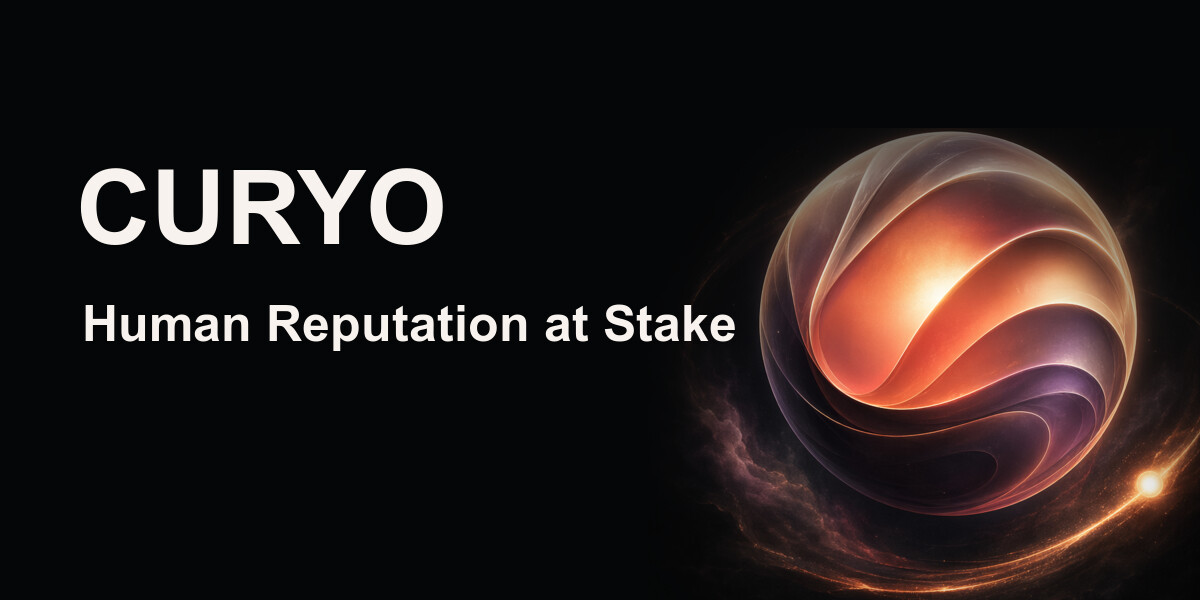
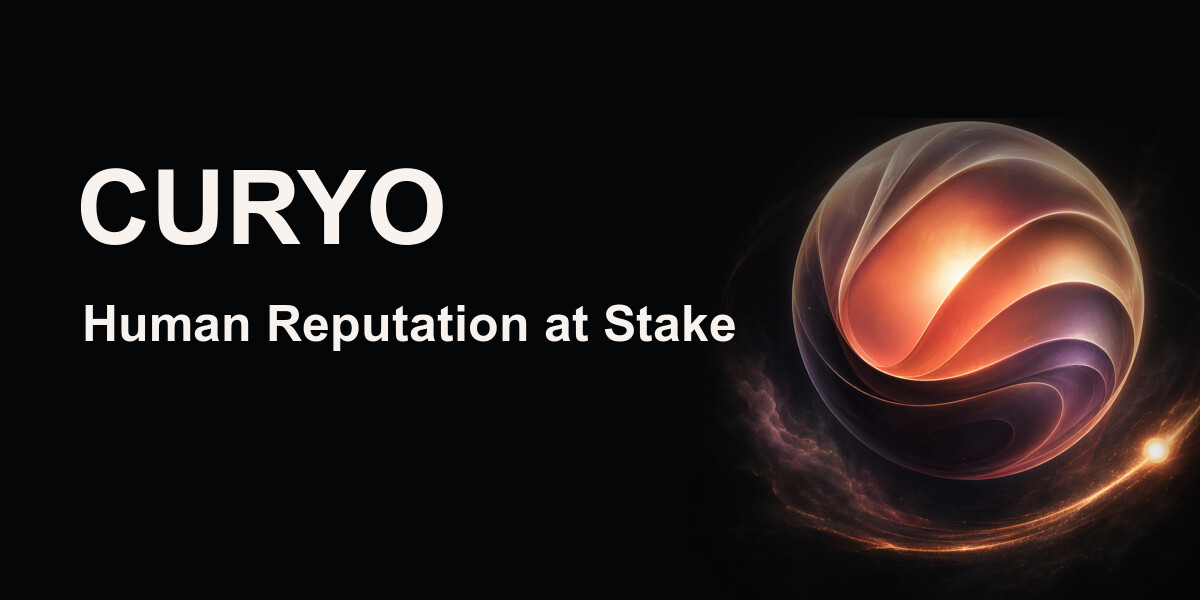
Center poster orb artwork

Changed region(s): [[0.5858, 0.18, 1.0, 1.0]]

diff --git a/packages/nextjs/components/home/PosterOrbScene.tsx b/packages/nextjs/components/home/PosterOrbScene.tsx
@@ -59,7 +59,8 @@ export function PosterOrbScene({
         .poster-orb-scene__image-shell {
           position: absolute;
           inset: 0;
-          transform-origin: 50% 45%;
+          transform: translateY(8%);
+          transform-origin: 50% 52%;
           mask-image: linear-gradient(to right, rgba(0, 0, 0, 1) 0 84%, rgba(0, 0, 0, 0.9) 90%, transparent 100%);
           -webkit-mask-image: linear-gradient(
             to right,
@@ -210,11 +211,11 @@ export function PosterOrbScene({
         @keyframes poster-orb-scene-float {
           0%,
           100% {
-            transform: translateY(0) scale(1.01);
+            transform: translateY(8%) scale(1.01);
           }
 
           50% {
-            transform: translateY(-12px) scale(1.03);
+            transform: translateY(calc(8% - 12px)) scale(1.03);
           }
         }
 
